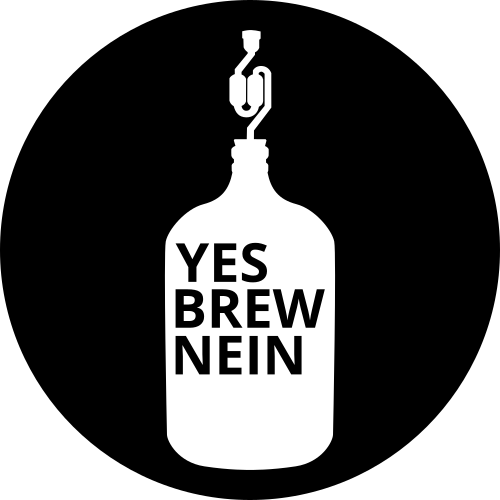
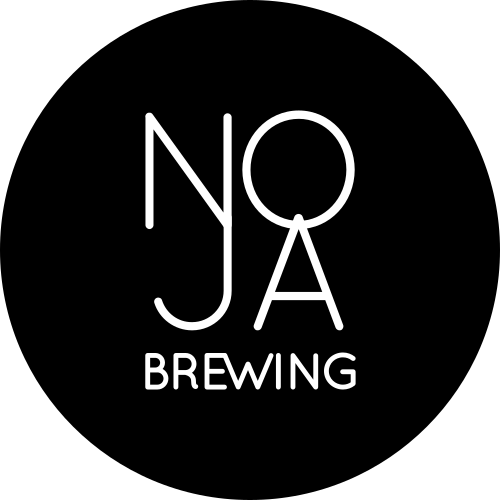
[NJB] Changed name to NOJA Brewing

Changed region(s): [[0.27, 0.06, 0.72, 0.96], [0.27, 0.21, 0.39, 0.45]]

diff --git a/src/js/components/header.js b/src/js/components/header.js
@@ -13,7 +13,7 @@ const Header = () => {
               <a className="social_link" href="https://www.facebook.com/profile.php?id=100009930556750" target="_blank">
                 <img className="social_icon" src={fb_icon}/>
               </a>
-              <a className="social_link" href="https://www.instagram.com/yesbrewnein" target="_blank">
+              <a className="social_link" href="https://www.instagram.com/nojabrewing" target="_blank">
                 <img className="social_icon" src={ig_icon}/>
               </a>
               <a className="social_link" href="https://untappd.com/yesbrewnein" target="_blank">
@@ -22,10 +22,6 @@ const Header = () => {
             </div>
             <div className="col-xs-8 col-sm-8 offset-xs-2 offset-sm-2 order-sm-1">
               <img className="header_icon" src={header_icon}/>
-            </div>
-            <div className="col-12 order-last header_text_wrapper">
-              <h1 className="header_text">YESBREWNEIN</h1>
-              <h3 className="sub_header_text">A Homebrewing Contradiction</h3>
             </div>
           </div>
         </div>

diff --git a/src/js/components/welcome.js b/src/js/components/welcome.js
@@ -14,8 +14,8 @@ const Welcome = () => {
             In the beers section you find a list of all the brews that I made so far; each with a description of the ingredients
             I used and some tasting notes. To better characterize my beers, I try to give them a meaningful
             name and design a label which reflects the color, style, and/or ingredients of the beer.
-            You find the recipes of all my beers at <a className="bold" target="_blank" href="http://brewgr.com/!/yesbrewnein">brewgr.com</a>.
-            If you like to contact me, send a mail to <a className="bold" href="mailto:yesbrewnein@gmail.com">yesbrewnein</a> or find me on facebook.
+            You find the recipes of all my beers at <a className="bold" target="_blank" href="http://brewgr.com/!/noja-brewing">brewgr.com</a>.
+            If you like to contact me, send a mail to <a className="bold" href="mailto:nojabrewing@gmail.com">NOJA Brewing</a> or find me on facebook.
           </p>
         </div>
       </div>

diff --git a/dist/index.html b/dist/index.html
@@ -2,10 +2,10 @@
 <html>
   <head>
       <meta charset="utf-8">
-      <meta name="description" content="YESBREWNEIN - A Homebrewing Contradiction">
-      <meta name="keywords" content="YESBREWNEIN, yesbrewnein, homebrewing, Potsdam">
+      <meta name="description" content="NOJA Brewing">
+      <meta name="keywords" content="NOJA brewing, homebrewing, Potsdam">
       <meta name="viewport" content="width=device-width, initial-scale=1">
-      <title>YESBREWNEIN - A Homebrewing Contradiction</title>
+      <title>NOJA Brewing</title>
 
       <link rel="icon" href="favicon.png" type="image/png" />
   </head>

diff --git a/src/styles/main.scss b/src/styles/main.scss
@@ -99,8 +99,8 @@ a, a:hover, a:active, a:visited {
 }
 
 .header_icon {
-  max-height: 180px;
-  height: 180px;
+  max-height: 300px;
+  height: 300px;
   margin: 0 auto;
   width: auto;
   display: block;
@@ -429,6 +429,10 @@ h3.sub_header_text {
 
   .header {
     padding: 30px;
+  }
+
+  .header_icon {
+    margin-bottom: 0;
   }
 
   .main {

diff --git a/src/js/components/instagram.js b/src/js/components/instagram.js
@@ -9,7 +9,7 @@ const Instagram = (props) => {
     return (
         <div className="main container">
             <div className="section">
-                <h3>@yesbrewnein</h3>
+                <h3>@nojabrewing</h3>
                 <div className="row">
                     {
                         props.data.map((item) => {

diff --git a/src/js/components/footer.js b/src/js/components/footer.js
@@ -4,7 +4,7 @@ const Footer = () => {
     return (
         <div className="footer container">
           <p>
-            &copy; YESBREWNEIN {(new Date()).getFullYear()}. All rights reserved.
+            &copy; NOJA Brewing {(new Date()).getFullYear()}. All rights reserved.
           </p>
         </div>
     )
